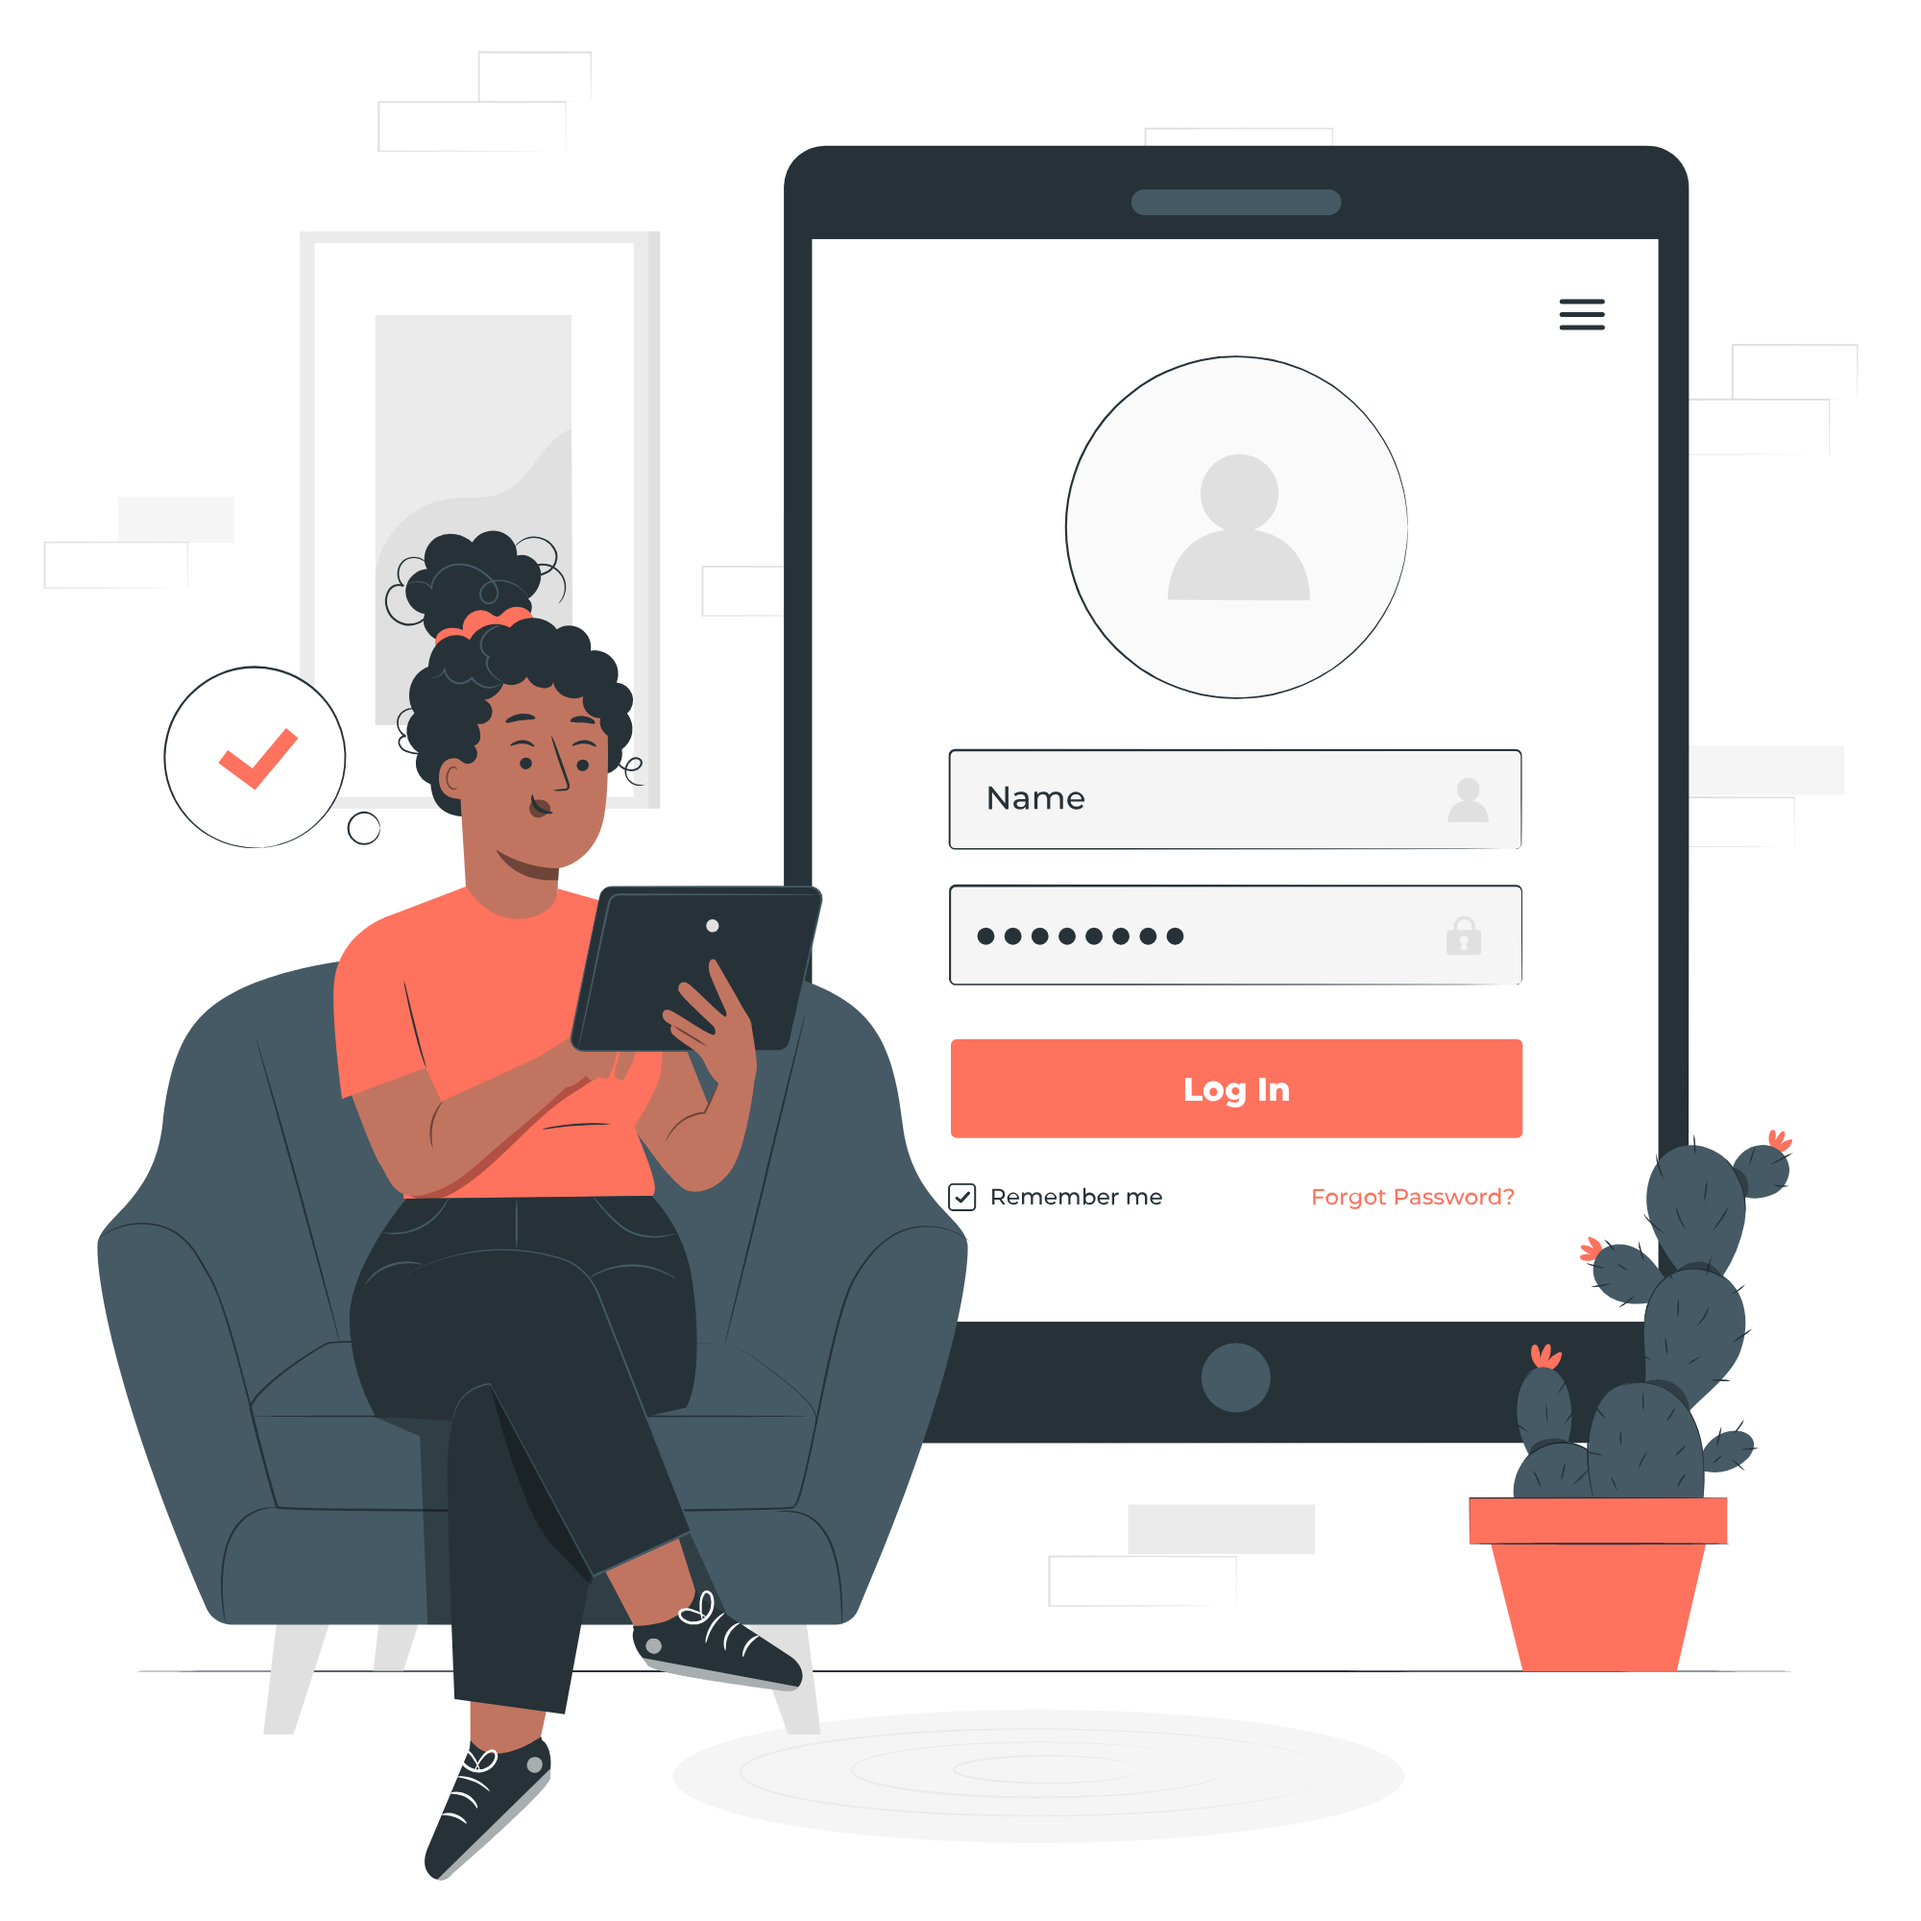
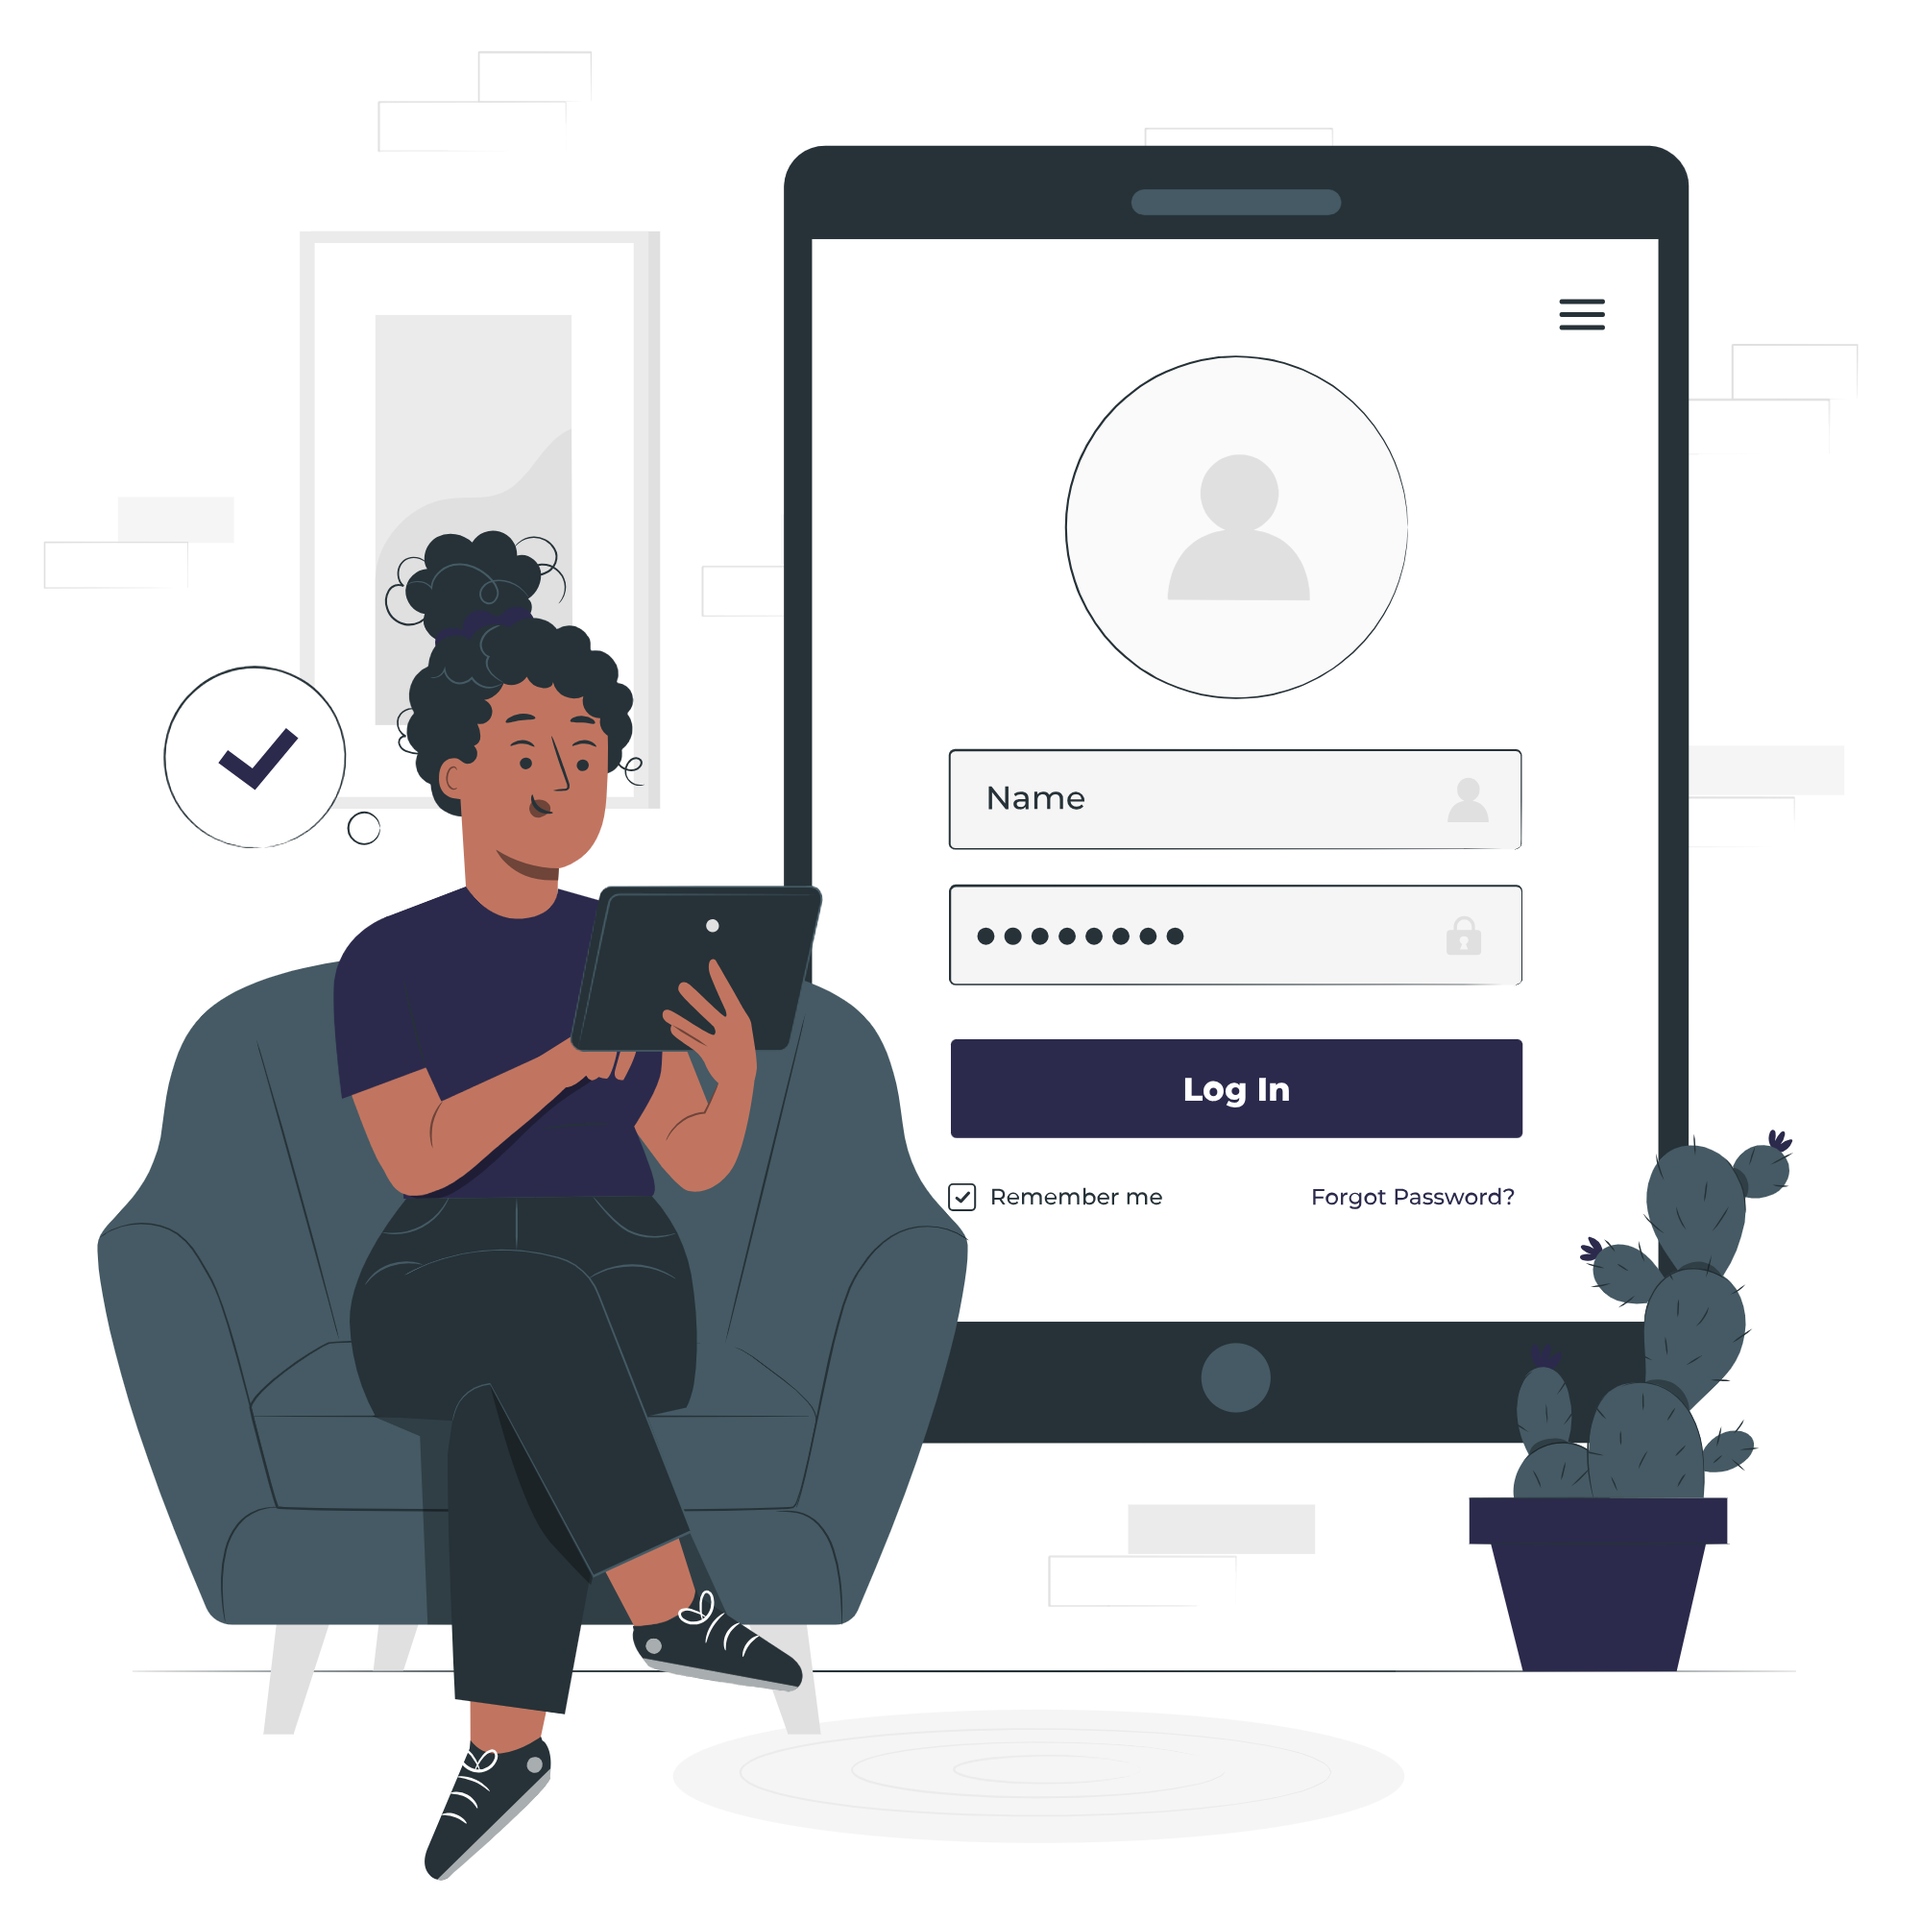
feat: connect sign-in with backend

diff --git a/src/pages/auth/signin.tsx b/src/pages/auth/signin.tsx
@@ -1,0 +1,35 @@
+import React from 'react';
+import Image from "next/image";
+import { FaGithub, FaGoogle } from 'react-icons/fa';
+import type { NextPage } from 'next';
+import { signIn } from 'next-auth/react';
+
+const SignIn: NextPage = () => {
+    return (
+        <main className="min-h-screen flex">
+            <div className="hidden md:w-1/2 bg-gradient-to-t from-darkerOrange to-lighterOrange md:flex justify-center items-center">
+                <Image src="/images/login.png"
+                    alt="Login Illustration"
+                    width={600}
+                    height={600}
+                    priority
+                 />
+            </div>
+            <div className="w-full md:w-1/2 flex flex-col justify-center items-center shadow-white">
+                <div className="flex flex-col space-y-4 md:space-y-4 mt-4 md:mt-6 bg-white p-8 md:p-12 rounded-lg text-center shadow-md">
+                    <span className="font-semibold">Sign in to continue</span>
+                    <button onClick={() => void signIn('github',{callbackUrl: '/'})} className="gradientBlueButton text-white px-4 md:px-5 py-2 md:py-3 rounded-lg border flex items-center">
+                        <FaGithub size={16} className="inline-block mr-2" />
+                        <span>Sign in with GitHub</span>
+                    </button>
+                    <button onClick={() => void signIn('google',{callbackUrl: '/'})} className="gradientOrangeButton text-white px-4 md:px-5 py-2 md:py-3 rounded-lg border flex items-center">
+                        <FaGoogle size={16} className="inline-block mr-2" />
+                        <span>Sign in with Google</span>
+                    </button>
+                </div>     
+            </div>
+        </main>
+    );
+};
+
+export default SignIn;

diff --git a/src/styles/globals.scss b/src/styles/globals.scss
@@ -18,6 +18,9 @@
   .gradientOrangeButton {
     @apply bg-white bg-gradient-to-r from-darkerOrange to-lighterOrange font-bold transition-all duration-200 ease-in hover:border-secondary hover:bg-white hover:bg-none hover:text-secondary;
   }
+  .gradientBlueButton {
+    @apply bg-white bg-gradient-to-r from-darkerBlue to-lighterBlue font-bold transition-all duration-200 ease-in hover:border-primary hover:bg-white hover:bg-none hover:text-primary;
+  }
   .hoverEffect {
     @apply transition-all duration-200 ease-in hover:text-white;
   }

diff --git a/src/pages/api/auth/[...nextauth].ts b/src/pages/api/auth/[...nextauth].ts
@@ -24,6 +24,9 @@ export const authOptions: NextAuthOptions = {
       clientSecret: process.env.GITHUB_SECRET as string,
     }),
   ],
+  pages:{
+    signIn: '/auth/signin',
+  },
   secret: process.env.NEXTAUTH_SECRET,
 };
 
